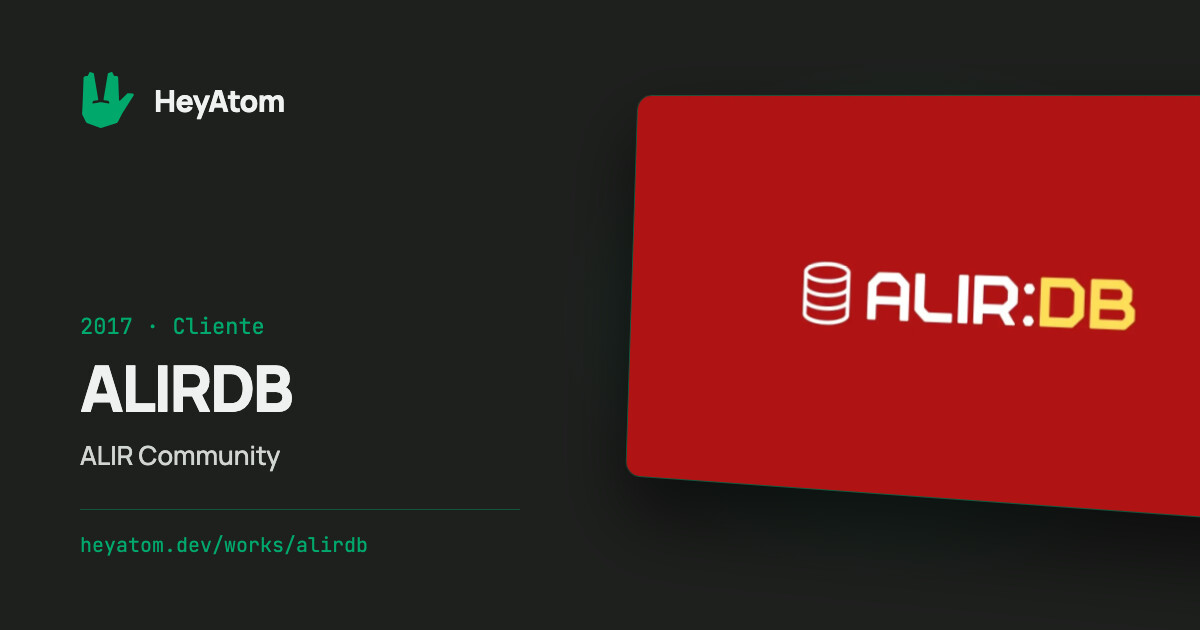
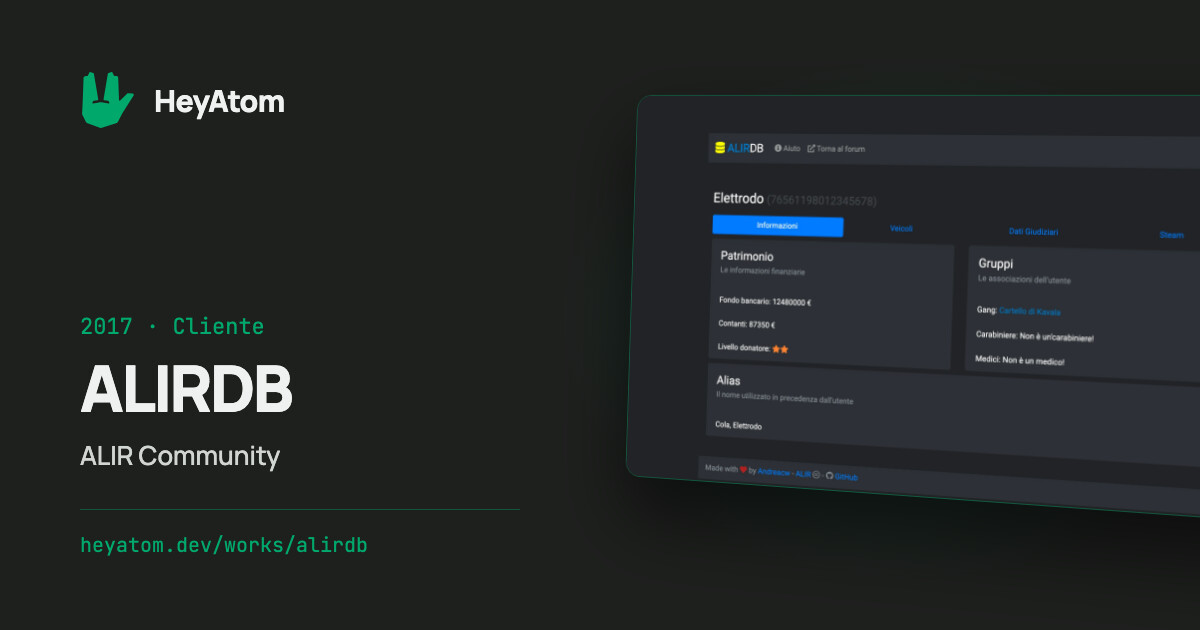
feat: ALIRDB con screenshot locali e descrizione corretta
- 7 screenshot da ALIRDB ricostruito in locale (public/shots/alirdb),
  al posto delle 4 immagini FileHarbor; preview = scheda giocatore.
- Descrizione e feature riscritte: è un database pubblico di ricerca
  giocatori/gang, non un portale personale (niente armi).
- shots.mjs: terzo campo opzionale per pagina con JS di setup (ALIRDB è
  una SPA senza URL per vista); i siti non raggiungibili vengono saltati
  tenendo gli screenshot esistenti.
- og/works/alirdb.jpg rigenerata.

diff --git a/app/data/works.ts b/app/data/works.ts
@@ -589,7 +589,6 @@ export const works: Work[] = [
       "Vuetify",
       "NGINX"
     ],
-    "website": "https://procivsettimomi.it",
     "github": "https://github.com/prociv-sm/website",
     "preview": "https://fileharbor.heyatom.dev/v2/images/3e7de746-fc49-4d59-83e2-12ef0fdedabe",
     "images": [
@@ -645,12 +644,13 @@ export const works: Work[] = [
     "current": false,
     "kind": "cliente",
     "client": "ALIR Community",
-    "description": "Portale per i giocatori della community ALIR su Arma 3: ognuno consulta in tempo reale i propri veicoli, armi, ruoli, incarichi e il saldo in gioco, letti dall'API del server dedicato.",
+    "description": "Database pubblico del server Altis Life della community ALIR su Arma 3. Dal browser chiunque cerca un giocatore per nome, alias o Steam ID e ne vede patrimonio, gradi, veicoli, gang e capi d'accusa, letti dall'API del server. Lo staff lo usava per i controlli senza aprire il database.",
     "features": [
-      "Dashboard dati personali",
-      "Monitoraggio veicoli",
-      "Ruoli e specializzazioni",
-      "Conti bancari in-game"
+      "Ricerca per nome, alias o Steam ID",
+      "Schede con patrimonio, gradi e veicoli",
+      "Gang con controllo del limite membri",
+      "Fedina penale e taglie",
+      "Elenchi di agenti, medici e donatori"
     ],
     "stack": [
       "HTML5",
@@ -658,23 +658,35 @@ export const works: Work[] = [
       "JavaScript"
     ],
     "github": "https://github.com/andreacw5/ALIRDB",
-    "preview": "https://fileharbor.heyatom.dev/v2/images/6dc7d8e3-1298-4510-8650-f23dfb36e534",
+    "preview": "/shots/alirdb/2.webp",
     "images": [
       {
-        "image": "https://fileharbor.heyatom.dev/v2/images/ba35ea74-37ea-4183-93c3-22fc2fc1e901",
+        "image": "/shots/alirdb/1.webp",
         "title": "Homepage"
       },
       {
-        "image": "https://fileharbor.heyatom.dev/v2/images/d461d7e8-4620-44ce-8bb6-c84346af8f96",
+        "image": "/shots/alirdb/2.webp",
         "title": "Scheda del giocatore"
       },
       {
-        "image": "https://fileharbor.heyatom.dev/v2/images/04f8e603-874e-4951-b0ce-0942c9578652",
+        "image": "/shots/alirdb/3.webp",
         "title": "Veicoli del giocatore"
       },
       {
-        "image": "https://fileharbor.heyatom.dev/v2/images/46397a26-b684-4e5e-9b2b-ac9899937e03",
+        "image": "/shots/alirdb/4.webp",
         "title": "Giocatori per fazione"
+      },
+      {
+        "image": "/shots/alirdb/5.webp",
+        "title": "Fedina penale"
+      },
+      {
+        "image": "/shots/alirdb/6.webp",
+        "title": "Membri della gang"
+      },
+      {
+        "image": "/shots/alirdb/7.webp",
+        "title": "Elenco donatori"
       }
     ]
   },

diff --git a/app/data/works.en.ts b/app/data/works.en.ts
@@ -102,9 +102,9 @@ export const worksEn: Record<string, WorkEn> = {
     features: ['Client management', 'Session planning', 'Exercise assignment', 'Progress tracking', 'Built-in chat'],
   },
   'alirdb': {
-    description: 'Portal for the ALIR community’s Arma 3 players: each one checks their vehicles, weapons, roles, jobs and in-game balance in real time, read from the dedicated server’s API.',
-    features: ['Personal data dashboard', 'Vehicle tracking', 'Roles and specializations', 'In-game bank accounts'],
-    images: ['Homepage', 'Player profile', 'Player vehicles', 'Players by faction'],
+    description: 'Public database of the ALIR community’s Altis Life server on Arma 3. From the browser anyone looks up a player by name, alias or Steam ID and sees their money, ranks, vehicles, gang and charges, read from the server’s API. Staff used it for checks without opening the database.',
+    features: ['Search by name, alias or Steam ID', 'Profiles with money, ranks and vehicles', 'Gangs with member limit check', 'Criminal record and bounties', 'Lists of police, medics and donors'],
+    images: ['Homepage', 'Player profile', 'Player vehicles', 'Players by faction', 'Criminal record', 'Gang members', 'Donor list'],
   },
   'alircommunity': {
     description: 'Site and forum of the ALIR community, for the Arma 3 Altis Life server: discussions, player support, and user and content management.',
